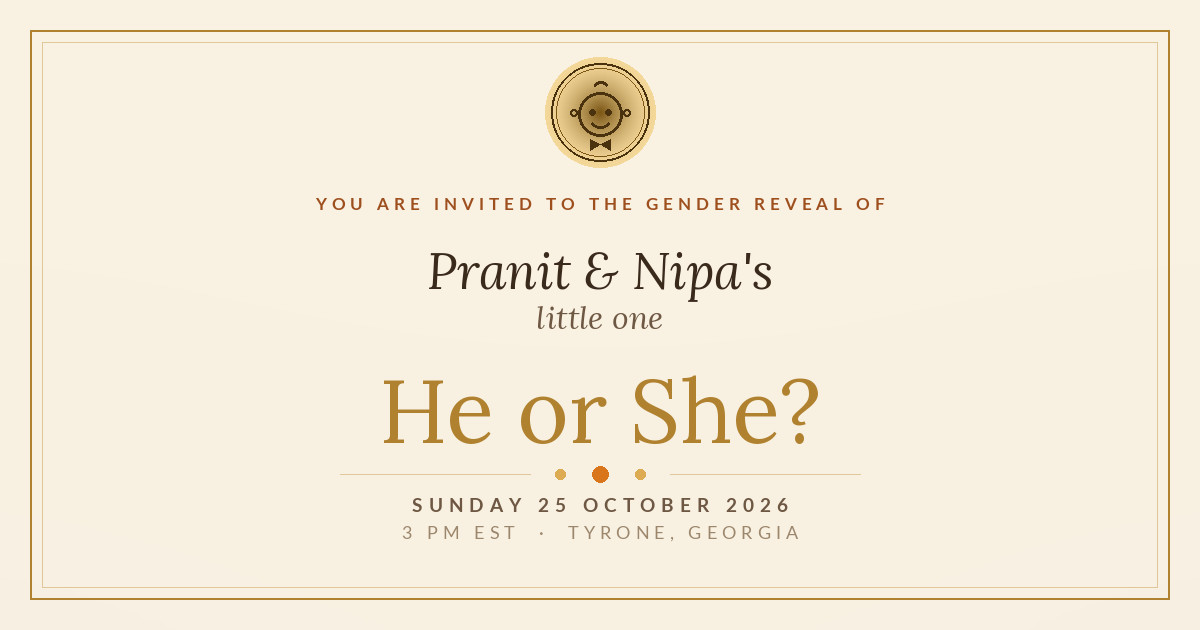
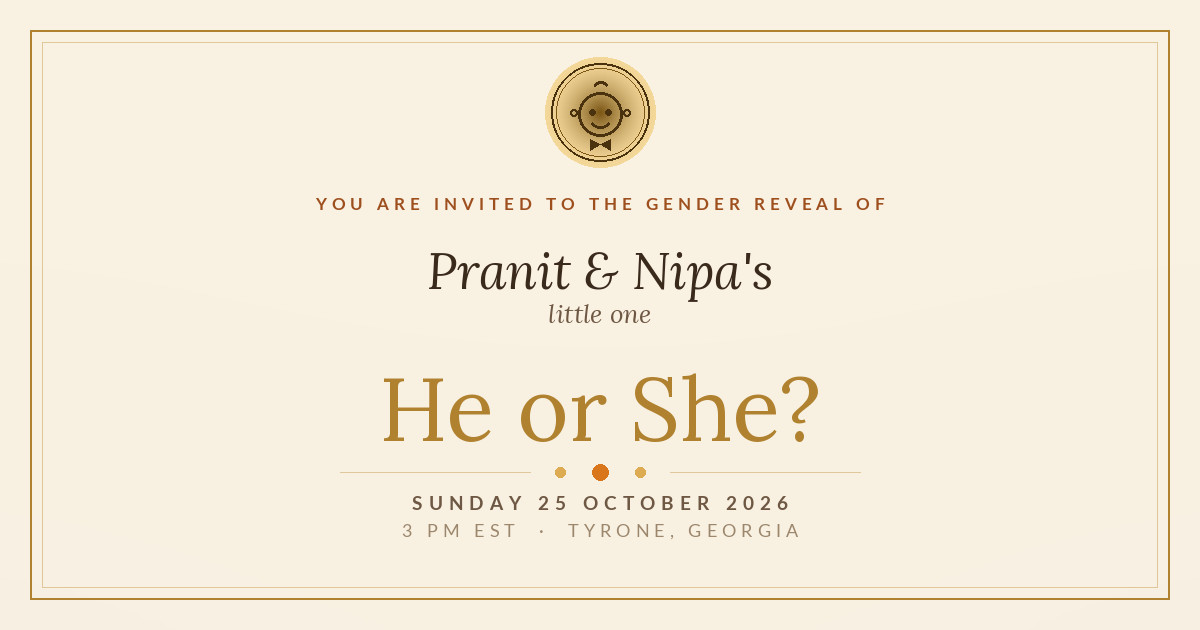
Add files via upload

diff --git a/index.html b/index.html
@@ -240,14 +240,15 @@ body{
   font-family:var(--f-display); font-optical-sizing:auto;
   font-weight:300; font-style:italic;
   font-size:clamp(1.6rem,4.4vw,2.5rem);
+  display:flex; flex-direction:column; align-items:center;
   margin:.5rem 0 0; color:var(--ink); letter-spacing:.01em;
   text-wrap:balance; max-width:18ch; margin-inline:auto;
   line-height:1.2;
 }
 /* "little one" sits under the names, quieter and smaller */
 .hosts .little{
-  display:block; font-size:.56em; color:var(--ink-2);
-  margin-top:.18em; letter-spacing:.03em;
+  display:block; width:100%; font-size:.4em; color:var(--ink-2);
+  margin-top:.3em; letter-spacing:.06em;
 }
 .pre{font-size:.78rem; letter-spacing:.2em; text-transform:uppercase; color:var(--ink-3); margin:.9rem 0 0}
 .question{
